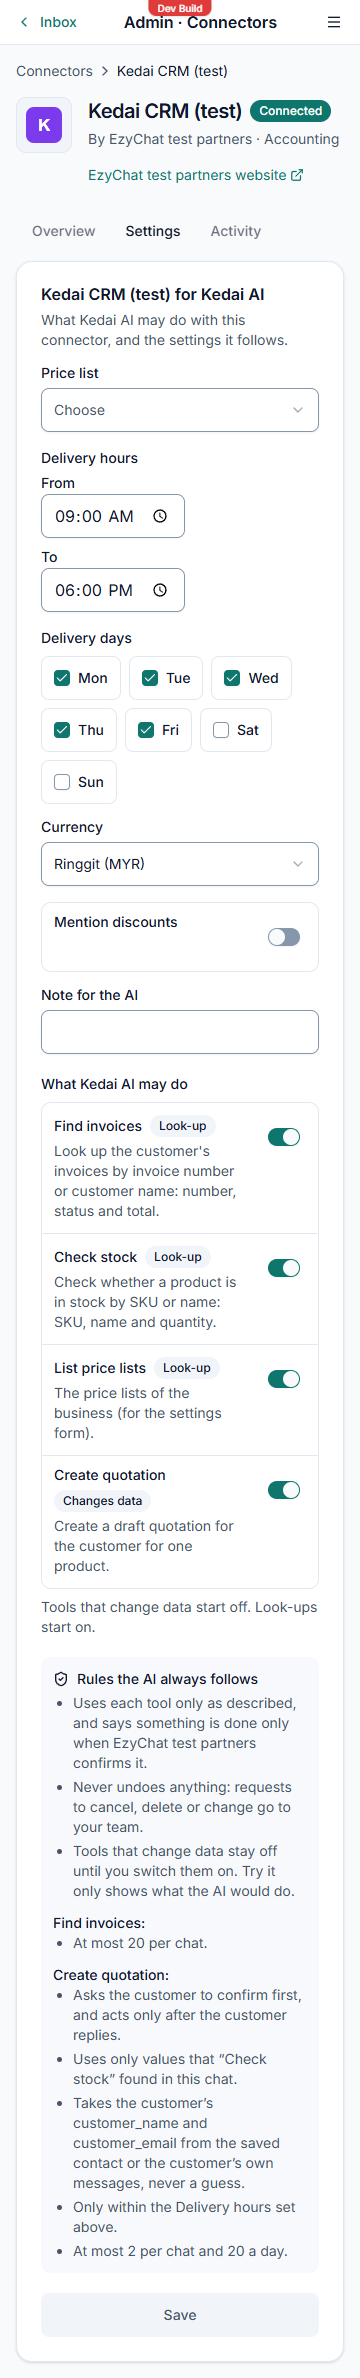
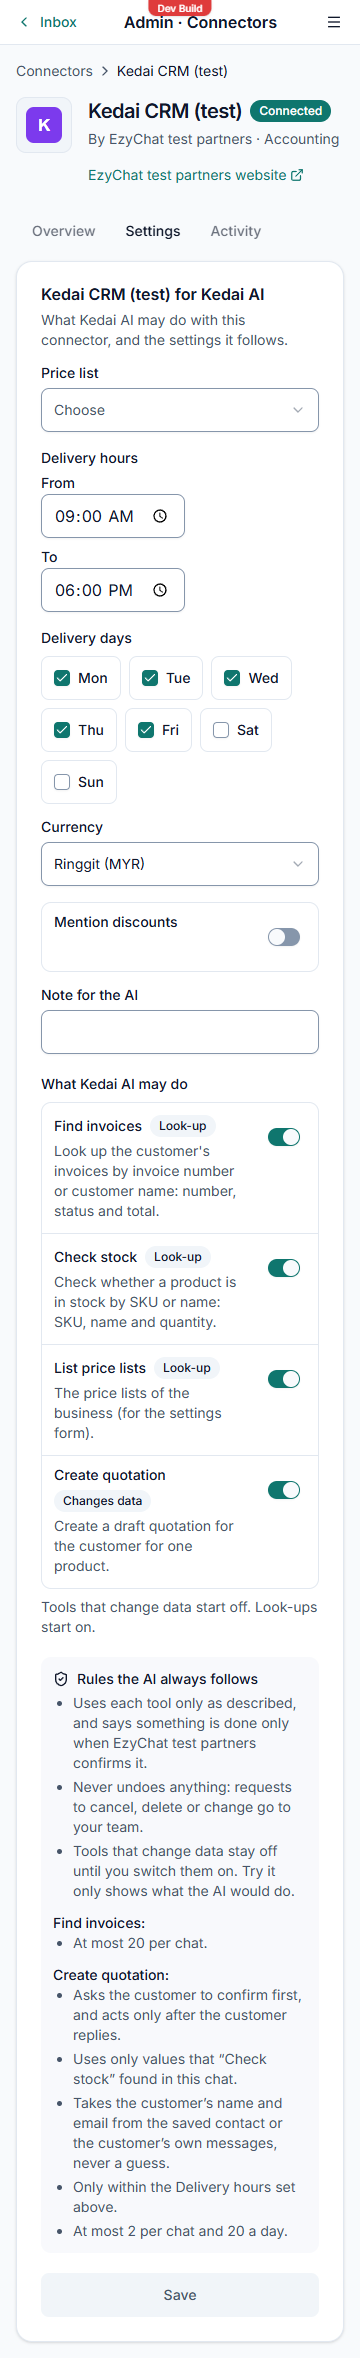
docs(connector-list): final-commit e2e, Dev Build and screen checks
Claude-Session: https://claude.ai/code/session_01Pbwg41HDzTNFD3q9rRfFZq

diff --git a/docs/workbooks/feat__connector-list.md b/docs/workbooks/feat__connector-list.md
@@ -8,9 +8,9 @@ Branch: `feat/connector-list` · Every agent updates its stage with
 | Design | done | mock confirmed by the owner 2026-10-27 ("yes, build it") at 9a5643920855cdc27449cbb4f4c3c7d6965eee06; sign-in types added; latestConfirmed updated | 9a56439 | 2026-10-26 |
 | Dev | done | List module (signed list, local copy, built-in list), partner MCP connections (5 sign-in types, migration 023, guards, AI tools), web screens, test partner server | eeeb577 | 2026-10-26 |
 | Unit tests | pass | 290 connector/related unit tests pass (server list + MCP + guards, web connectors, contract, migrate, upgrade-from-oldest, calendar); review fixes: limits reservation, fail-closed guards, schema-checked args, write switch keeps access, single-use consent, callback after disconnect, dev-only allowance, whole-token match | eeeb577 | 2026-10-26 |
-| E2E | pass | Full e2e once on the rebased branch: 112 passed, 19 skipped, 0 failed (desktop, mobile, iphone, multi-inbox, new partners project 7/7) | 5cc03a3 | 2026-10-27 |
-| Dev Build | pass | Mock Dev Build + partner MCP test server: e2e/devbuild-partner-check.mjs 25/25 (list, sign-in, every guard, Try it, partner down, Disconnect); logged in dev-build-checks.md | 5cc03a3 | 2026-10-27 |
-| Screen review | pass | 60 shots (1280/360, light/dark) via e2e/partner-screens.mjs: no errors/overflow, matches mock; fixed raw argument names in the rules box; docs/screenshots/connectors/partner-* | 5cc03a3 | 2026-10-27 |
+| E2E | pass | Final commit: npm run e2e 112 passed, 19 skipped, 0 failed (desktop, mobile, iphone, multi-inbox, partners 7/7); npm run e2e:electron-links 17/17 screens | 2f577ab | 2026-10-27 |
+| Dev Build | pass | Final commit: mock Dev Build + partner MCP test server, e2e/devbuild-partner-check.mjs 25/25 ALL PASSED; logged in dev-build-checks.md | 2f577ab | 2026-10-27 |
+| Screen review | pass | Final commit: e2e/partner-screens.mjs 60 shots (1280/360, light/dark), no page errors or overflow, matches the mock; rules box names customer fields in plain words | 2f577ab | 2026-10-27 |
 
 ## Log
 
@@ -22,3 +22,6 @@ Branch: `feat/connector-list` · Every agent updates its stage with
 - 2026-10-27 E2E: pass — Full e2e once on the rebased branch: 112 passed, 19 skipped, 0 failed (desktop, mobile, iphone, multi-inbox, new partners project 7/7) (5cc03a3)
 - 2026-10-27 Dev Build: pass — Mock Dev Build + partner MCP test server: e2e/devbuild-partner-check.mjs 25/25 (list, sign-in, every guard, Try it, partner down, Disconnect); logged in dev-build-checks.md (5cc03a3)
 - 2026-10-27 Screen review: pass — 60 shots (1280/360, light/dark) via e2e/partner-screens.mjs: no errors/overflow, matches mock; fixed raw argument names in the rules box; docs/screenshots/connectors/partner-* (5cc03a3)
+- 2026-10-27 E2E: pass — Final commit: npm run e2e 112 passed, 19 skipped, 0 failed (desktop, mobile, iphone, multi-inbox, partners 7/7); npm run e2e:electron-links 17/17 screens (2f577ab)
+- 2026-10-27 Dev Build: pass — Final commit: mock Dev Build + partner MCP test server, e2e/devbuild-partner-check.mjs 25/25 ALL PASSED; logged in dev-build-checks.md (2f577ab)
+- 2026-10-27 Screen review: pass — Final commit: e2e/partner-screens.mjs 60 shots (1280/360, light/dark), no page errors or overflow, matches the mock; rules box names customer fields in plain words (2f577ab)
